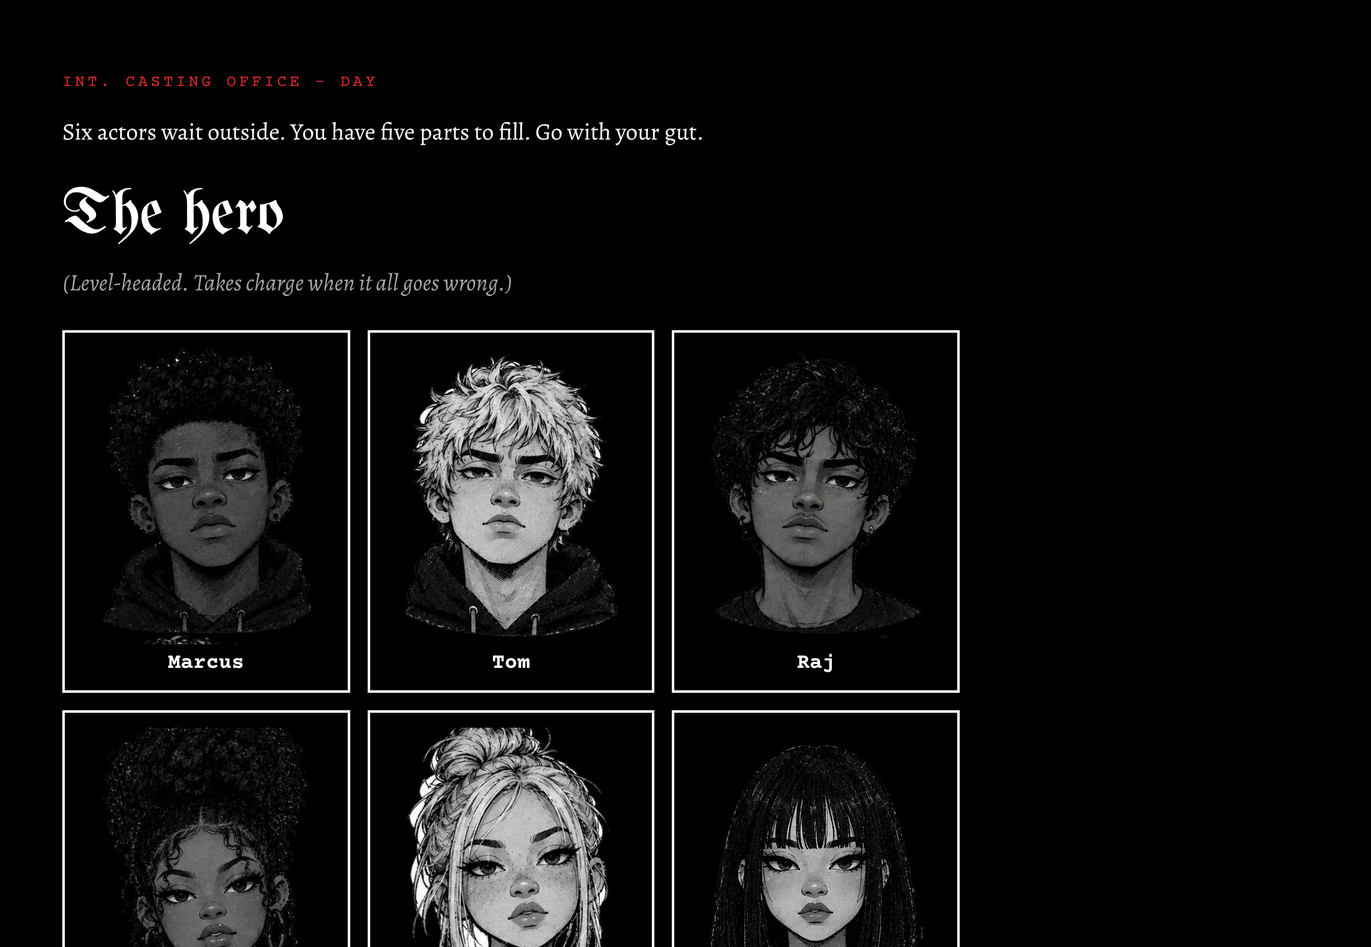
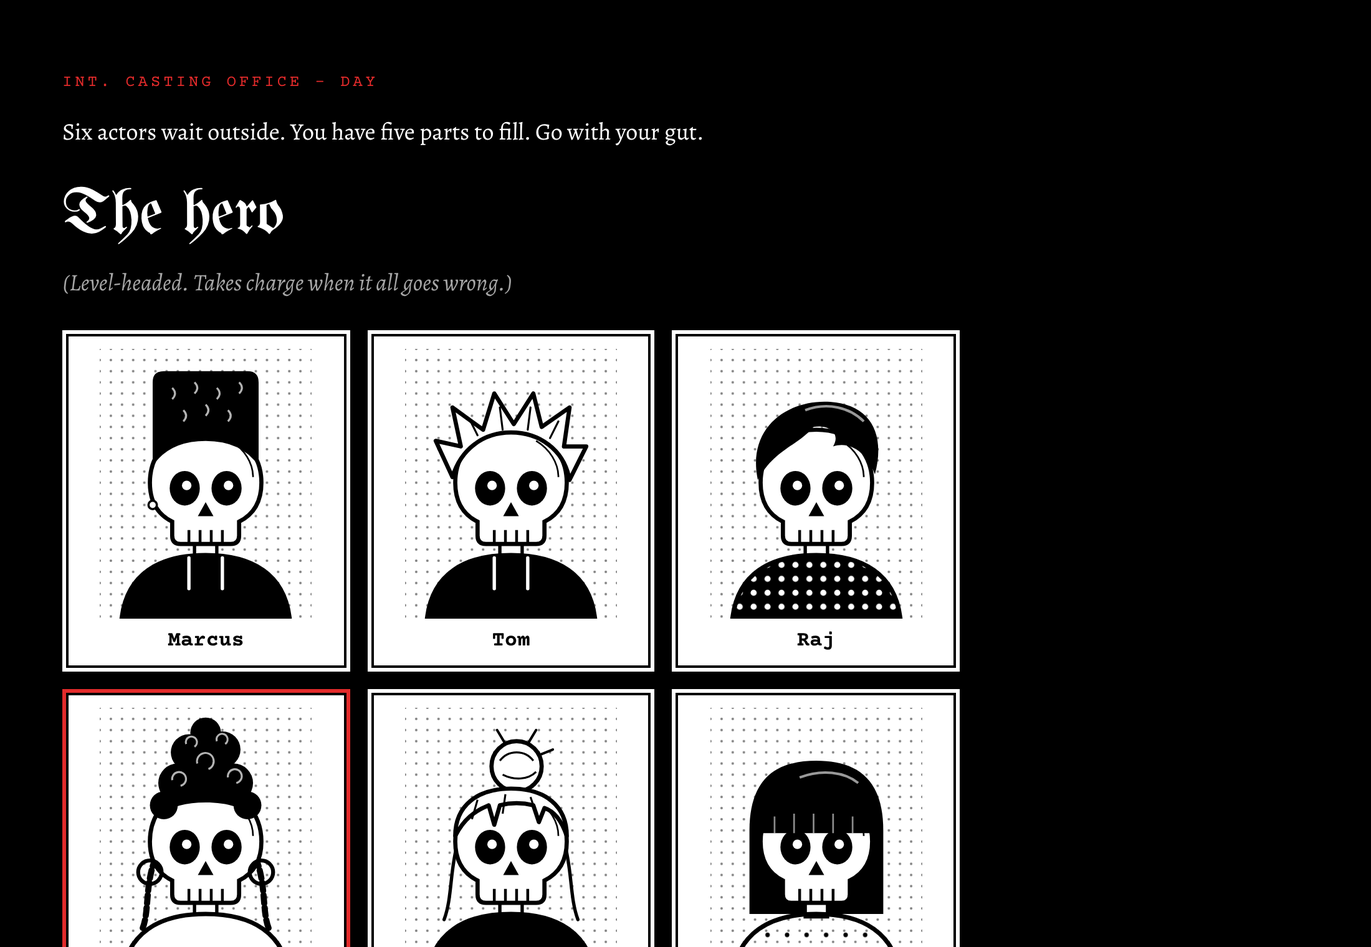
Redraw the cast as skeleton characters to match the thumbnail

diff --git a/index.html b/index.html
@@ -61,8 +61,8 @@ button{font:inherit;cursor:pointer}
 @media (max-width:820px){.hero{grid-template-columns:1fr;gap:36px}}
 .hero .lede{font-size:21px;margin:0 0 30px}
 .frame{border:2px solid var(--fg);padding:6px;margin:0}
-.frame .inner{background:var(--bg);display:grid;grid-template-columns:repeat(3,1fr);gap:0}
-.frame img{display:block;width:100%;height:auto;aspect-ratio:300/420;object-fit:contain;padding:6px}
+.frame .inner{background:var(--paper);display:grid;grid-template-columns:repeat(3,1fr);gap:0}
+.frame .skel{display:block;width:100%;height:auto;border:1.5px solid #000}
 .frame figcaption{font-family:var(--type);font-size:12px;letter-spacing:.14em;text-transform:uppercase;color:var(--muted);padding:10px 4px 2px}
 .meta{display:grid;grid-template-columns:repeat(4,1fr);gap:24px;border-top:2px solid var(--fg);border-bottom:1px solid var(--line);margin:48px 0 0;padding:22px 0 26px}
 @media (max-width:820px){.meta{grid-template-columns:repeat(2,1fr)}}
@@ -77,13 +77,13 @@ button{font:inherit;cursor:pointer}
 .paren{color:var(--muted);font-style:italic;margin:-8px 0 22px}
 .cards{display:grid;grid-template-columns:repeat(3,1fr);gap:14px;margin:0 0 8px}
 @media (max-width:520px){.cards{grid-template-columns:repeat(2,1fr)}}
-.card{background:var(--bg);color:var(--fg);border:2px solid var(--fg);padding:8px 8px 12px;text-align:center;display:flex;flex-direction:column;align-items:center;gap:4px;position:relative}
+.card{background:var(--paper);color:var(--ink);border:3px solid var(--paper);outline:2px solid var(--ink);outline-offset:-5px;padding:8px 8px 12px;text-align:center;display:flex;flex-direction:column;align-items:center;gap:4px;position:relative}
 .card:hover{border-color:var(--red)}
-.card img{display:block;width:100%;max-width:170px;height:auto;aspect-ratio:300/420;object-fit:contain;margin:4px auto 2px;pointer-events:none}
+.card .skel{display:block;width:100%;max-width:170px;height:auto;margin:4px auto 2px;pointer-events:none}
 .card .name{font:700 17px var(--type)}
-.card .role{font:400 13px var(--type);color:var(--muted)}
+.card .role{font:400 13px var(--type);color:#444}
 .card[disabled]{opacity:.3;cursor:default}
-.card[disabled]:hover{border-color:var(--fg)}
+.card[disabled]:hover{border-color:var(--paper)}
 .card.dead{border-color:var(--red)}
 .card.dead::after{content:"";position:absolute;inset:0;background:linear-gradient(to top right,transparent calc(50% - 2px),var(--red) calc(50% - 1px),var(--red) calc(50% + 1px),transparent calc(50% + 2px))}
 .cast-list{margin:22px 0 0;padding:0;list-style:none;font-family:var(--type);font-size:15px}
@@ -153,6 +153,55 @@ footer img{width:96px;height:auto}
 </style>
 </head>
 <body>
+<svg width="0" height="0" style="position:absolute" aria-hidden="true" focusable="false"><defs><pattern id="wdTone" width="6" height="6" patternUnits="userSpaceOnUse"><circle cx="3" cy="3" r="1.25" fill="#000"/></pattern><pattern id="wdToneL" width="7" height="7" patternUnits="userSpaceOnUse"><circle cx="3.5" cy="3.5" r=".8" fill="#000"/></pattern><pattern id="wdToneD" width="5" height="5" patternUnits="userSpaceOnUse"><rect width="5" height="5" fill="#000"/><circle cx="2.5" cy="2.5" r="1.1" fill="#FFF"/></pattern><pattern id="wdToneC" width="4" height="4" patternUnits="userSpaceOnUse"><circle cx="2" cy="2" r=".45" fill="#000"/></pattern><g id="wd-tom"><path d="M-4 19H4V25H-4Z" fill="#FFF" stroke="#000" stroke-width="1.2"/>
+<path d="M-30 46C-28 31-17 24 0 24S28 31 30 46Z" fill="#000" stroke="#000" stroke-width="1.6"/><path d="M-6 25V36M6 25V36" stroke="#FFF" stroke-width="1.2" stroke-linecap="round"/><path d="M0-21C-13-21-20-12-20-2C-20 6-16 10-12 12V17C-12 19-11 20-9 20H9C11 20 12 19 12 17V12C16 10 20 6 20-2C20-12 13-21 0-21Z" fill="#FFF" stroke="#000" stroke-width="1.5"/>
+<path d="M9-17C14-14 17-9 17-4" fill="none" stroke="#000" stroke-width=".6"/>
+<ellipse cx="-7.5" cy="0" rx="5.4" ry="6.2" fill="#000"/><ellipse cx="7.5" cy="0" rx="5.4" ry="6.2" fill="#000"/>
+<circle cx="-6.8" cy="-1" r="1.7" fill="#FFF"/><circle cx="8.2" cy="-1" r="1.7" fill="#FFF"/>
+<path d="M0 5L-2.8 10H2.8Z" fill="#000"/>
+<path d="M-6 20V15M-2 20V15M2 20V15M6 20V15" stroke="#000" stroke-width="1"/><path d="M-21-4L-27-17L-18-15L-21-29L-10-21L-6-34L1-23L8-34L11-22L21-29L19-15L27-15L21-3C19-14 10-20 0-20C-10-20-18-14-21-4Z" fill="#FFF" stroke="#000" stroke-width="1.5" stroke-linejoin="round"/>
+<path d="M-12-19L-15-25M-3-21L-4-29M6-21L7-29M14-18L17-24" stroke="#000" stroke-width=".7" stroke-linecap="round"/></g><g id="wd-marcus"><path d="M-4 19H4V25H-4Z" fill="#FFF" stroke="#000" stroke-width="1.2"/>
+<path d="M-30 46C-28 31-17 24 0 24S28 31 30 46Z" fill="#000" stroke="#000" stroke-width="1.6"/><path d="M-6 25V36M6 25V36" stroke="#FFF" stroke-width="1.2" stroke-linecap="round"/><path d="M0-21C-13-21-20-12-20-2C-20 6-16 10-12 12V17C-12 19-11 20-9 20H9C11 20 12 19 12 17V12C16 10 20 6 20-2C20-12 13-21 0-21Z" fill="#FFF" stroke="#000" stroke-width="1.5"/>
+<path d="M9-17C14-14 17-9 17-4" fill="none" stroke="#000" stroke-width=".6"/>
+<ellipse cx="-7.5" cy="0" rx="5.4" ry="6.2" fill="#000"/><ellipse cx="7.5" cy="0" rx="5.4" ry="6.2" fill="#000"/>
+<circle cx="-6.8" cy="-1" r="1.7" fill="#FFF"/><circle cx="8.2" cy="-1" r="1.7" fill="#FFF"/>
+<path d="M0 5L-2.8 10H2.8Z" fill="#000"/>
+<path d="M-6 20V15M-2 20V15M2 20V15M6 20V15" stroke="#000" stroke-width="1"/><path d="M-19-8V-38Q-19-42-15-42H15Q19-42 19-38V-8Q13-17 0-17T-19-8Z" fill="#000"/>
+<path d="M-12-36q2 2 0 4M-4-38q2 2 0 4M4-36q2 2 0 4M12-38q2 2 0 4M-8-28q2 2 0 4M0-30q2 2 0 4M8-28q2 2 0 4" stroke="#FFF" stroke-width=".7" fill="none" opacity=".7"/>
+<circle cx="-19" cy="6" r="1.5" fill="#FFF" stroke="#000" stroke-width=".8"/></g><g id="wd-raj"><path d="M-4 19H4V25H-4Z" fill="#FFF" stroke="#000" stroke-width="1.2"/>
+<path d="M-30 46C-28 31-17 24 0 24S28 31 30 46Z" fill="url(#wdToneD)" stroke="#000" stroke-width="1.6"/><path d="M0-21C-13-21-20-12-20-2C-20 6-16 10-12 12V17C-12 19-11 20-9 20H9C11 20 12 19 12 17V12C16 10 20 6 20-2C20-12 13-21 0-21Z" fill="#FFF" stroke="#000" stroke-width="1.5"/>
+<path d="M9-17C14-14 17-9 17-4" fill="none" stroke="#000" stroke-width=".6"/>
+<ellipse cx="-7.5" cy="0" rx="5.4" ry="6.2" fill="#000"/><ellipse cx="7.5" cy="0" rx="5.4" ry="6.2" fill="#000"/>
+<circle cx="-6.8" cy="-1" r="1.7" fill="#FFF"/><circle cx="8.2" cy="-1" r="1.7" fill="#FFF"/>
+<path d="M0 5L-2.8 10H2.8Z" fill="#000"/>
+<path d="M-6 20V15M-2 20V15M2 20V15M6 20V15" stroke="#000" stroke-width="1"/><path d="M-21-3C-25-22-10-32 5-31C19-30 25-20 21-5C18-13 12-17 6-15C9-20 4-23 -1-22C-7-15-15-14-21-3Z" fill="#000"/>
+<path d="M-4-28C4-31 12-29 17-24" stroke="#FFF" stroke-width=".9" fill="none" opacity=".6"/></g><g id="wd-ama"><path d="M-18 4C-22 14-20 24-23 30M18 4C22 14 20 24 23 30" fill="none" stroke="#000" stroke-width="2.2" stroke-linecap="round" stroke-dasharray="3 1.5"/><path d="M-4 19H4V25H-4Z" fill="#FFF" stroke="#000" stroke-width="1.2"/>
+<path d="M-30 46C-28 31-17 24 0 24S28 31 30 46Z" fill="#FFF" stroke="#000" stroke-width="1.6"/><path d="M0-21C-13-21-20-12-20-2C-20 6-16 10-12 12V17C-12 19-11 20-9 20H9C11 20 12 19 12 17V12C16 10 20 6 20-2C20-12 13-21 0-21Z" fill="#FFF" stroke="#000" stroke-width="1.5"/>
+<path d="M9-17C14-14 17-9 17-4" fill="none" stroke="#000" stroke-width=".6"/>
+<ellipse cx="-7.5" cy="0" rx="5.4" ry="6.2" fill="#000"/><ellipse cx="7.5" cy="0" rx="5.4" ry="6.2" fill="#000"/>
+<circle cx="-6.8" cy="-1" r="1.7" fill="#FFF"/><circle cx="8.2" cy="-1" r="1.7" fill="#FFF"/>
+<path d="M0 5L-2.8 10H2.8Z" fill="#000"/>
+<path d="M-6 20V15M-2 20V15M2 20V15M6 20V15" stroke="#000" stroke-width="1"/><g fill="#000"><circle cx="0" cy="-27" r="9"/><circle cx="-10" cy="-23" r="7"/><circle cx="10" cy="-23" r="7"/><circle cx="-6" cy="-34" r="6.5"/><circle cx="6" cy="-35" r="6.5"/><circle cx="0" cy="-41" r="5.5"/><circle cx="-15" cy="-15" r="5"/><circle cx="15" cy="-15" r="5"/></g>
+<path d="M-19-10C-17-17-10-20 0-20C10-20 17-17 19-10C14-14 8-16 0-16S-14-14-19-10Z" fill="#000"/>
+<g fill="none" stroke="#FFF" stroke-width=".7" opacity=".7"><path d="M-3-30a3 3 0 1 1 4 2M-12-24a2.5 2.5 0 1 1 3 2M8-25a2.5 2.5 0 1 1 3 2M-7-37a2 2 0 1 1 3 1M4-38a2 2 0 1 1 3 1"/></g>
+<circle cx="-20" cy="9" r="4.2" fill="none" stroke="#000" stroke-width="1.4"/><circle cx="20" cy="9" r="4.2" fill="none" stroke="#000" stroke-width="1.4"/></g><g id="wd-chloe"><path d="M-19-2C-22 8-21 18-24 26M19-2C22 8 21 18 24 26" fill="none" stroke="#000" stroke-width="1.2" stroke-linecap="round"/><path d="M-4 19H4V25H-4Z" fill="#FFF" stroke="#000" stroke-width="1.2"/>
+<path d="M-30 46C-28 31-17 24 0 24S28 31 30 46Z" fill="#000" stroke="#000" stroke-width="1.6"/><path d="M0-21C-13-21-20-12-20-2C-20 6-16 10-12 12V17C-12 19-11 20-9 20H9C11 20 12 19 12 17V12C16 10 20 6 20-2C20-12 13-21 0-21Z" fill="#FFF" stroke="#000" stroke-width="1.5"/>
+<path d="M9-17C14-14 17-9 17-4" fill="none" stroke="#000" stroke-width=".6"/>
+<ellipse cx="-7.5" cy="0" rx="5.4" ry="6.2" fill="#000"/><ellipse cx="7.5" cy="0" rx="5.4" ry="6.2" fill="#000"/>
+<circle cx="-6.8" cy="-1" r="1.7" fill="#FFF"/><circle cx="8.2" cy="-1" r="1.7" fill="#FFF"/>
+<path d="M0 5L-2.8 10H2.8Z" fill="#000"/>
+<path d="M-6 20V15M-2 20V15M2 20V15M6 20V15" stroke="#000" stroke-width="1"/><circle cx="2" cy="-29" r="9" fill="#FFF" stroke="#000" stroke-width="1.5"/><path d="M-4-31c3-4 9-4 12 0M-3-26c4 2 9 2 12-1" fill="none" stroke="#000" stroke-width=".7"/>
+<path d="M-20-4C-20-15-12-21 0-21C12-21 20-15 20-4C18-10 15-13 12-14L10-9L8-15C4-16 0-16-4-15L-6-8L-8-15C-13-13-17-10-20-4Z" fill="#FFF" stroke="#000" stroke-width="1.5" stroke-linejoin="round"/>
+<path d="M-12-17L-14-10M-2-19L-3-12M7-18L9-12" stroke="#000" stroke-width=".7"/>
+<path d="M6-37l3-5M-2-37l-3-5M10-33l5-2" stroke="#000" stroke-width=".9" stroke-linecap="round"/></g><g id="wd-mei"><path d="M-24-6C-24-25-14-31 0-31S24-25 24-6V24H-24Z" fill="#000"/><path d="M-4 19H4V25H-4Z" fill="#FFF" stroke="#000" stroke-width="1.2"/>
+<path d="M-30 46C-28 31-17 24 0 24S28 31 30 46Z" fill="url(#wdToneL)" stroke="#000" stroke-width="1.6"/><path d="M0-21C-13-21-20-12-20-2C-20 6-16 10-12 12V17C-12 19-11 20-9 20H9C11 20 12 19 12 17V12C16 10 20 6 20-2C20-12 13-21 0-21Z" fill="#FFF" stroke="#000" stroke-width="1.5"/>
+<path d="M9-17C14-14 17-9 17-4" fill="none" stroke="#000" stroke-width=".6"/>
+<ellipse cx="-7.5" cy="0" rx="5.4" ry="6.2" fill="#000"/><ellipse cx="7.5" cy="0" rx="5.4" ry="6.2" fill="#000"/>
+<circle cx="-6.8" cy="-1" r="1.7" fill="#FFF"/><circle cx="8.2" cy="-1" r="1.7" fill="#FFF"/>
+<path d="M0 5L-2.8 10H2.8Z" fill="#000"/>
+<path d="M-6 20V15M-2 20V15M2 20V15M6 20V15" stroke="#000" stroke-width="1"/><path d="M-21-5C-21-22-12-28 0-28S21-22 21-5H-21Z" fill="#000"/>
+<path d="M-15-5V-11M-8-5V-12M-1-5V-12M6-5V-12M13-5V-11" stroke="#FFF" stroke-width=".6" opacity=".55"/>
+<path d="M-6-25C2-28 10-27 15-23" stroke="#FFF" stroke-width=".9" fill="none" opacity=".6"/></g></defs></svg>
 <main>
 
 <!-- TITLE -->
@@ -295,7 +344,7 @@ footer img{width:96px;height:auto}
   <div class="method">
     <p>I picked 27 well-known horror films with Black characters in the main cast, 15 from before Get Out and 12 from after. For each one I read the plot summary on Wikipedia and logged who dies, in what order, and what happens to every Black main character. Villains and monsters aren't counted as victims. A character counts as Black if the actor is publicly identified as Black; where that wasn't clear, I left them out. Three films (Alien vs. Predator, Get Out and Candyman 2021) are left out of the "who died first" count because the first victim isn't clear from the source.</p>
     <p>This is a hand-picked set, not every horror film ever made, and the newer half leans towards Black-led films. That is part of the story, but it means the survival numbers describe these films, not the whole genre. The data is <a href="data/films.csv">here</a> and <a href="data/black_characters.csv">here</a> if you want to check my work.</p>
-    <p>The six actors in the game are made up. Actor photos come from Wikimedia Commons.</p>
+    <p>The six skeleton actors in the game are made up. Real actor photos come from Wikimedia Commons.</p>
     <p>Further reading: Robin R. Means Coleman, <i>Horror Noire: Blacks in American Horror Films from the 1890s to Present</i> (2011), and the 2019 documentary of the same name.</p>
   </div>
   </div>
@@ -345,7 +394,7 @@ const TIMELINE = [
 
 /* ---------- avatar drawing ---------- */
 function avatar(a){
-  return `<img src="assets/cast/${a.id}.png" alt="${a.name}" width="300" height="420" loading="eager" draggable="false">`;
+  return `<svg class="skel" viewBox="-38 -50 76 98" role="img" aria-label="${a.name}"><rect x="-38" y="-50" width="76" height="98" fill="url(#wdToneC)" opacity=".5"/><use href="#wd-${a.id}"/></svg>`;
 }
 
 /* ---------- state ---------- */

diff --git a/src/template.html b/src/template.html
@@ -61,8 +61,8 @@ button{font:inherit;cursor:pointer}
 @media (max-width:820px){.hero{grid-template-columns:1fr;gap:36px}}
 .hero .lede{font-size:21px;margin:0 0 30px}
 .frame{border:2px solid var(--fg);padding:6px;margin:0}
-.frame .inner{background:var(--bg);display:grid;grid-template-columns:repeat(3,1fr);gap:0}
-.frame img{display:block;width:100%;height:auto;aspect-ratio:300/420;object-fit:contain;padding:6px}
+.frame .inner{background:var(--paper);display:grid;grid-template-columns:repeat(3,1fr);gap:0}
+.frame .skel{display:block;width:100%;height:auto;border:1.5px solid #000}
 .frame figcaption{font-family:var(--type);font-size:12px;letter-spacing:.14em;text-transform:uppercase;color:var(--muted);padding:10px 4px 2px}
 .meta{display:grid;grid-template-columns:repeat(4,1fr);gap:24px;border-top:2px solid var(--fg);border-bottom:1px solid var(--line);margin:48px 0 0;padding:22px 0 26px}
 @media (max-width:820px){.meta{grid-template-columns:repeat(2,1fr)}}
@@ -77,13 +77,13 @@ button{font:inherit;cursor:pointer}
 .paren{color:var(--muted);font-style:italic;margin:-8px 0 22px}
 .cards{display:grid;grid-template-columns:repeat(3,1fr);gap:14px;margin:0 0 8px}
 @media (max-width:520px){.cards{grid-template-columns:repeat(2,1fr)}}
-.card{background:var(--bg);color:var(--fg);border:2px solid var(--fg);padding:8px 8px 12px;text-align:center;display:flex;flex-direction:column;align-items:center;gap:4px;position:relative}
+.card{background:var(--paper);color:var(--ink);border:3px solid var(--paper);outline:2px solid var(--ink);outline-offset:-5px;padding:8px 8px 12px;text-align:center;display:flex;flex-direction:column;align-items:center;gap:4px;position:relative}
 .card:hover{border-color:var(--red)}
-.card img{display:block;width:100%;max-width:170px;height:auto;aspect-ratio:300/420;object-fit:contain;margin:4px auto 2px;pointer-events:none}
+.card .skel{display:block;width:100%;max-width:170px;height:auto;margin:4px auto 2px;pointer-events:none}
 .card .name{font:700 17px var(--type)}
-.card .role{font:400 13px var(--type);color:var(--muted)}
+.card .role{font:400 13px var(--type);color:#444}
 .card[disabled]{opacity:.3;cursor:default}
-.card[disabled]:hover{border-color:var(--fg)}
+.card[disabled]:hover{border-color:var(--paper)}
 .card.dead{border-color:var(--red)}
 .card.dead::after{content:"";position:absolute;inset:0;background:linear-gradient(to top right,transparent calc(50% - 2px),var(--red) calc(50% - 1px),var(--red) calc(50% + 1px),transparent calc(50% + 2px))}
 .cast-list{margin:22px 0 0;padding:0;list-style:none;font-family:var(--type);font-size:15px}
@@ -153,6 +153,55 @@ footer img{width:96px;height:auto}
 </style>
 </head>
 <body>
+<svg width="0" height="0" style="position:absolute" aria-hidden="true" focusable="false"><defs><pattern id="wdTone" width="6" height="6" patternUnits="userSpaceOnUse"><circle cx="3" cy="3" r="1.25" fill="#000"/></pattern><pattern id="wdToneL" width="7" height="7" patternUnits="userSpaceOnUse"><circle cx="3.5" cy="3.5" r=".8" fill="#000"/></pattern><pattern id="wdToneD" width="5" height="5" patternUnits="userSpaceOnUse"><rect width="5" height="5" fill="#000"/><circle cx="2.5" cy="2.5" r="1.1" fill="#FFF"/></pattern><pattern id="wdToneC" width="4" height="4" patternUnits="userSpaceOnUse"><circle cx="2" cy="2" r=".45" fill="#000"/></pattern><g id="wd-tom"><path d="M-4 19H4V25H-4Z" fill="#FFF" stroke="#000" stroke-width="1.2"/>
+<path d="M-30 46C-28 31-17 24 0 24S28 31 30 46Z" fill="#000" stroke="#000" stroke-width="1.6"/><path d="M-6 25V36M6 25V36" stroke="#FFF" stroke-width="1.2" stroke-linecap="round"/><path d="M0-21C-13-21-20-12-20-2C-20 6-16 10-12 12V17C-12 19-11 20-9 20H9C11 20 12 19 12 17V12C16 10 20 6 20-2C20-12 13-21 0-21Z" fill="#FFF" stroke="#000" stroke-width="1.5"/>
+<path d="M9-17C14-14 17-9 17-4" fill="none" stroke="#000" stroke-width=".6"/>
+<ellipse cx="-7.5" cy="0" rx="5.4" ry="6.2" fill="#000"/><ellipse cx="7.5" cy="0" rx="5.4" ry="6.2" fill="#000"/>
+<circle cx="-6.8" cy="-1" r="1.7" fill="#FFF"/><circle cx="8.2" cy="-1" r="1.7" fill="#FFF"/>
+<path d="M0 5L-2.8 10H2.8Z" fill="#000"/>
+<path d="M-6 20V15M-2 20V15M2 20V15M6 20V15" stroke="#000" stroke-width="1"/><path d="M-21-4L-27-17L-18-15L-21-29L-10-21L-6-34L1-23L8-34L11-22L21-29L19-15L27-15L21-3C19-14 10-20 0-20C-10-20-18-14-21-4Z" fill="#FFF" stroke="#000" stroke-width="1.5" stroke-linejoin="round"/>
+<path d="M-12-19L-15-25M-3-21L-4-29M6-21L7-29M14-18L17-24" stroke="#000" stroke-width=".7" stroke-linecap="round"/></g><g id="wd-marcus"><path d="M-4 19H4V25H-4Z" fill="#FFF" stroke="#000" stroke-width="1.2"/>
+<path d="M-30 46C-28 31-17 24 0 24S28 31 30 46Z" fill="#000" stroke="#000" stroke-width="1.6"/><path d="M-6 25V36M6 25V36" stroke="#FFF" stroke-width="1.2" stroke-linecap="round"/><path d="M0-21C-13-21-20-12-20-2C-20 6-16 10-12 12V17C-12 19-11 20-9 20H9C11 20 12 19 12 17V12C16 10 20 6 20-2C20-12 13-21 0-21Z" fill="#FFF" stroke="#000" stroke-width="1.5"/>
+<path d="M9-17C14-14 17-9 17-4" fill="none" stroke="#000" stroke-width=".6"/>
+<ellipse cx="-7.5" cy="0" rx="5.4" ry="6.2" fill="#000"/><ellipse cx="7.5" cy="0" rx="5.4" ry="6.2" fill="#000"/>
+<circle cx="-6.8" cy="-1" r="1.7" fill="#FFF"/><circle cx="8.2" cy="-1" r="1.7" fill="#FFF"/>
+<path d="M0 5L-2.8 10H2.8Z" fill="#000"/>
+<path d="M-6 20V15M-2 20V15M2 20V15M6 20V15" stroke="#000" stroke-width="1"/><path d="M-19-8V-38Q-19-42-15-42H15Q19-42 19-38V-8Q13-17 0-17T-19-8Z" fill="#000"/>
+<path d="M-12-36q2 2 0 4M-4-38q2 2 0 4M4-36q2 2 0 4M12-38q2 2 0 4M-8-28q2 2 0 4M0-30q2 2 0 4M8-28q2 2 0 4" stroke="#FFF" stroke-width=".7" fill="none" opacity=".7"/>
+<circle cx="-19" cy="6" r="1.5" fill="#FFF" stroke="#000" stroke-width=".8"/></g><g id="wd-raj"><path d="M-4 19H4V25H-4Z" fill="#FFF" stroke="#000" stroke-width="1.2"/>
+<path d="M-30 46C-28 31-17 24 0 24S28 31 30 46Z" fill="url(#wdToneD)" stroke="#000" stroke-width="1.6"/><path d="M0-21C-13-21-20-12-20-2C-20 6-16 10-12 12V17C-12 19-11 20-9 20H9C11 20 12 19 12 17V12C16 10 20 6 20-2C20-12 13-21 0-21Z" fill="#FFF" stroke="#000" stroke-width="1.5"/>
+<path d="M9-17C14-14 17-9 17-4" fill="none" stroke="#000" stroke-width=".6"/>
+<ellipse cx="-7.5" cy="0" rx="5.4" ry="6.2" fill="#000"/><ellipse cx="7.5" cy="0" rx="5.4" ry="6.2" fill="#000"/>
+<circle cx="-6.8" cy="-1" r="1.7" fill="#FFF"/><circle cx="8.2" cy="-1" r="1.7" fill="#FFF"/>
+<path d="M0 5L-2.8 10H2.8Z" fill="#000"/>
+<path d="M-6 20V15M-2 20V15M2 20V15M6 20V15" stroke="#000" stroke-width="1"/><path d="M-21-3C-25-22-10-32 5-31C19-30 25-20 21-5C18-13 12-17 6-15C9-20 4-23 -1-22C-7-15-15-14-21-3Z" fill="#000"/>
+<path d="M-4-28C4-31 12-29 17-24" stroke="#FFF" stroke-width=".9" fill="none" opacity=".6"/></g><g id="wd-ama"><path d="M-18 4C-22 14-20 24-23 30M18 4C22 14 20 24 23 30" fill="none" stroke="#000" stroke-width="2.2" stroke-linecap="round" stroke-dasharray="3 1.5"/><path d="M-4 19H4V25H-4Z" fill="#FFF" stroke="#000" stroke-width="1.2"/>
+<path d="M-30 46C-28 31-17 24 0 24S28 31 30 46Z" fill="#FFF" stroke="#000" stroke-width="1.6"/><path d="M0-21C-13-21-20-12-20-2C-20 6-16 10-12 12V17C-12 19-11 20-9 20H9C11 20 12 19 12 17V12C16 10 20 6 20-2C20-12 13-21 0-21Z" fill="#FFF" stroke="#000" stroke-width="1.5"/>
+<path d="M9-17C14-14 17-9 17-4" fill="none" stroke="#000" stroke-width=".6"/>
+<ellipse cx="-7.5" cy="0" rx="5.4" ry="6.2" fill="#000"/><ellipse cx="7.5" cy="0" rx="5.4" ry="6.2" fill="#000"/>
+<circle cx="-6.8" cy="-1" r="1.7" fill="#FFF"/><circle cx="8.2" cy="-1" r="1.7" fill="#FFF"/>
+<path d="M0 5L-2.8 10H2.8Z" fill="#000"/>
+<path d="M-6 20V15M-2 20V15M2 20V15M6 20V15" stroke="#000" stroke-width="1"/><g fill="#000"><circle cx="0" cy="-27" r="9"/><circle cx="-10" cy="-23" r="7"/><circle cx="10" cy="-23" r="7"/><circle cx="-6" cy="-34" r="6.5"/><circle cx="6" cy="-35" r="6.5"/><circle cx="0" cy="-41" r="5.5"/><circle cx="-15" cy="-15" r="5"/><circle cx="15" cy="-15" r="5"/></g>
+<path d="M-19-10C-17-17-10-20 0-20C10-20 17-17 19-10C14-14 8-16 0-16S-14-14-19-10Z" fill="#000"/>
+<g fill="none" stroke="#FFF" stroke-width=".7" opacity=".7"><path d="M-3-30a3 3 0 1 1 4 2M-12-24a2.5 2.5 0 1 1 3 2M8-25a2.5 2.5 0 1 1 3 2M-7-37a2 2 0 1 1 3 1M4-38a2 2 0 1 1 3 1"/></g>
+<circle cx="-20" cy="9" r="4.2" fill="none" stroke="#000" stroke-width="1.4"/><circle cx="20" cy="9" r="4.2" fill="none" stroke="#000" stroke-width="1.4"/></g><g id="wd-chloe"><path d="M-19-2C-22 8-21 18-24 26M19-2C22 8 21 18 24 26" fill="none" stroke="#000" stroke-width="1.2" stroke-linecap="round"/><path d="M-4 19H4V25H-4Z" fill="#FFF" stroke="#000" stroke-width="1.2"/>
+<path d="M-30 46C-28 31-17 24 0 24S28 31 30 46Z" fill="#000" stroke="#000" stroke-width="1.6"/><path d="M0-21C-13-21-20-12-20-2C-20 6-16 10-12 12V17C-12 19-11 20-9 20H9C11 20 12 19 12 17V12C16 10 20 6 20-2C20-12 13-21 0-21Z" fill="#FFF" stroke="#000" stroke-width="1.5"/>
+<path d="M9-17C14-14 17-9 17-4" fill="none" stroke="#000" stroke-width=".6"/>
+<ellipse cx="-7.5" cy="0" rx="5.4" ry="6.2" fill="#000"/><ellipse cx="7.5" cy="0" rx="5.4" ry="6.2" fill="#000"/>
+<circle cx="-6.8" cy="-1" r="1.7" fill="#FFF"/><circle cx="8.2" cy="-1" r="1.7" fill="#FFF"/>
+<path d="M0 5L-2.8 10H2.8Z" fill="#000"/>
+<path d="M-6 20V15M-2 20V15M2 20V15M6 20V15" stroke="#000" stroke-width="1"/><circle cx="2" cy="-29" r="9" fill="#FFF" stroke="#000" stroke-width="1.5"/><path d="M-4-31c3-4 9-4 12 0M-3-26c4 2 9 2 12-1" fill="none" stroke="#000" stroke-width=".7"/>
+<path d="M-20-4C-20-15-12-21 0-21C12-21 20-15 20-4C18-10 15-13 12-14L10-9L8-15C4-16 0-16-4-15L-6-8L-8-15C-13-13-17-10-20-4Z" fill="#FFF" stroke="#000" stroke-width="1.5" stroke-linejoin="round"/>
+<path d="M-12-17L-14-10M-2-19L-3-12M7-18L9-12" stroke="#000" stroke-width=".7"/>
+<path d="M6-37l3-5M-2-37l-3-5M10-33l5-2" stroke="#000" stroke-width=".9" stroke-linecap="round"/></g><g id="wd-mei"><path d="M-24-6C-24-25-14-31 0-31S24-25 24-6V24H-24Z" fill="#000"/><path d="M-4 19H4V25H-4Z" fill="#FFF" stroke="#000" stroke-width="1.2"/>
+<path d="M-30 46C-28 31-17 24 0 24S28 31 30 46Z" fill="url(#wdToneL)" stroke="#000" stroke-width="1.6"/><path d="M0-21C-13-21-20-12-20-2C-20 6-16 10-12 12V17C-12 19-11 20-9 20H9C11 20 12 19 12 17V12C16 10 20 6 20-2C20-12 13-21 0-21Z" fill="#FFF" stroke="#000" stroke-width="1.5"/>
+<path d="M9-17C14-14 17-9 17-4" fill="none" stroke="#000" stroke-width=".6"/>
+<ellipse cx="-7.5" cy="0" rx="5.4" ry="6.2" fill="#000"/><ellipse cx="7.5" cy="0" rx="5.4" ry="6.2" fill="#000"/>
+<circle cx="-6.8" cy="-1" r="1.7" fill="#FFF"/><circle cx="8.2" cy="-1" r="1.7" fill="#FFF"/>
+<path d="M0 5L-2.8 10H2.8Z" fill="#000"/>
+<path d="M-6 20V15M-2 20V15M2 20V15M6 20V15" stroke="#000" stroke-width="1"/><path d="M-21-5C-21-22-12-28 0-28S21-22 21-5H-21Z" fill="#000"/>
+<path d="M-15-5V-11M-8-5V-12M-1-5V-12M6-5V-12M13-5V-11" stroke="#FFF" stroke-width=".6" opacity=".55"/>
+<path d="M-6-25C2-28 10-27 15-23" stroke="#FFF" stroke-width=".9" fill="none" opacity=".6"/></g></defs></svg>
 <main>
 
 <!-- TITLE -->
@@ -295,7 +344,7 @@ footer img{width:96px;height:auto}
   <div class="method">
     <p>I picked 27 well-known horror films with Black characters in the main cast, 15 from before Get Out and 12 from after. For each one I read the plot summary on Wikipedia and logged who dies, in what order, and what happens to every Black main character. Villains and monsters aren't counted as victims. A character counts as Black if the actor is publicly identified as Black; where that wasn't clear, I left them out. Three films (Alien vs. Predator, Get Out and Candyman 2021) are left out of the "who died first" count because the first victim isn't clear from the source.</p>
     <p>This is a hand-picked set, not every horror film ever made, and the newer half leans towards Black-led films. That is part of the story, but it means the survival numbers describe these films, not the whole genre. The data is <a href="data/films.csv">here</a> and <a href="data/black_characters.csv">here</a> if you want to check my work.</p>
-    <p>The six actors in the game are made up. Actor photos come from Wikimedia Commons.</p>
+    <p>The six skeleton actors in the game are made up. Real actor photos come from Wikimedia Commons.</p>
     <p>Further reading: Robin R. Means Coleman, <i>Horror Noire: Blacks in American Horror Films from the 1890s to Present</i> (2011), and the 2019 documentary of the same name.</p>
   </div>
   </div>
@@ -345,7 +394,7 @@ const TIMELINE = [
 
 /* ---------- avatar drawing ---------- */
 function avatar(a){
-  return `<img src="assets/cast/${a.id}.png" alt="${a.name}" width="300" height="420" loading="eager" draggable="false">`;
+  return `<svg class="skel" viewBox="-38 -50 76 98" role="img" aria-label="${a.name}"><rect x="-38" y="-50" width="76" height="98" fill="url(#wdToneC)" opacity=".5"/><use href="#wd-${a.id}"/></svg>`;
 }
 
 /* ---------- state ---------- */

diff --git a/README.md b/README.md
@@ -109,7 +109,6 @@ black-horror-1968-2025/
 │   ├── films.csv               # One row per film, with its first named victim
 │   └── black_characters.csv    # One row per Black main character, with their fate
 ├── assets/
-│   ├── cast/                   # The six character portraits
 │   ├── fonts/                  # Self-hosted fonts and their licences
 │   └── logo.png                # My logo
 ├── screenshot_title.png        # Title screen
